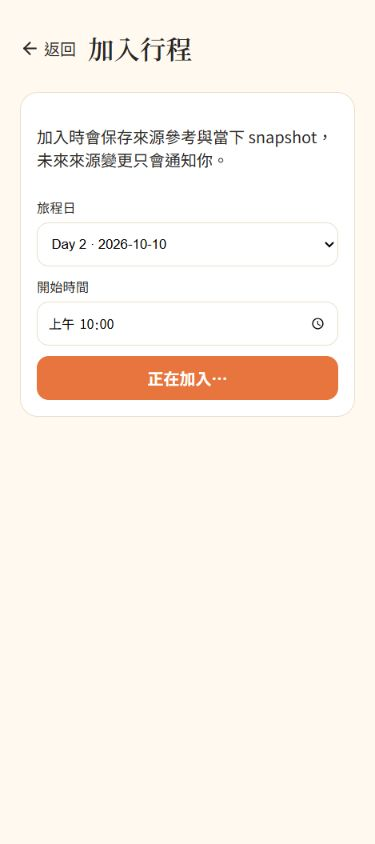
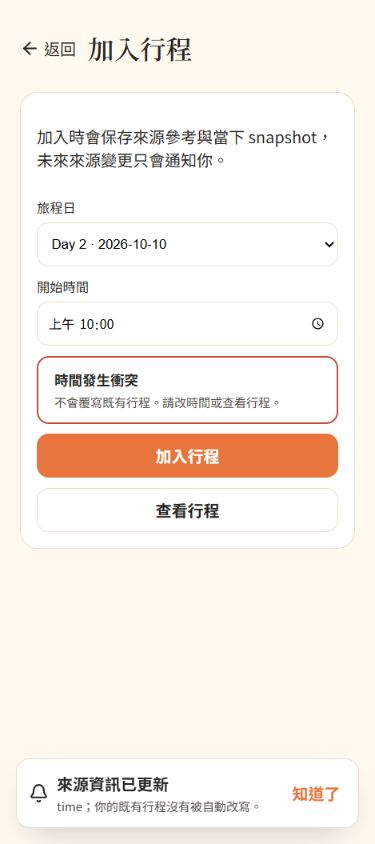
fix: finalize M2 review evidence states

Changed region(s): [[0.088, 0.4005, 0.9093, 0.6161], [0.1467, 0.8934, 0.9093, 0.9858], [0.088, 0.9242, 0.1173, 0.955]]

diff --git a/src/features/discovery/DiscoveryPages.tsx b/src/features/discovery/DiscoveryPages.tsx
@@ -43,12 +43,13 @@ export function AddEventPage() {
 }
 
 export function ReviewerQueuePage() {
-  const role = useQuery({ queryKey: ['platform-role'], queryFn: currentPlatformRole }); const [selected, setSelected] = useState<{ id: string; kind: DiscoveryKind; decision: 'approve' | 'request_changes' | 'reject' | 'publish' } | null>(null); const [note, setNote] = useState(''); const [saving, setSaving] = useState(false); const [failure, setFailure] = useState(false); const [success, setSuccess] = useState(''); const triggerRef = useRef<HTMLButtonElement>(null); const confirmRef = useRef<HTMLButtonElement>(null); const dialogRef = useRef<HTMLElement>(null); const queue = useQuery({ queryKey: ['review-queue'], enabled: Boolean(role.data), queryFn: async () => { const { supabase } = await import('../../lib/supabase'); if (!supabase) return []; const { data, error } = await supabase.from('data_review_queue').select('*').in('status', ['pending', 'needs_changes', 'approved']).order('priority', { ascending: false }); if (error) throw error; return data; } });
+  const role = useQuery({ queryKey: ['platform-role'], queryFn: currentPlatformRole }); const [selected, setSelected] = useState<{ id: string; kind: DiscoveryKind; decision: 'approve' | 'request_changes' | 'reject' | 'publish' } | null>(null); const [note, setNote] = useState(''); const [saving, setSaving] = useState(false); const [failure, setFailure] = useState(false); const [success, setSuccess] = useState(''); const [publishedIds, setPublishedIds] = useState<Set<string>>(() => new Set()); const triggerRef = useRef<HTMLButtonElement>(null); const confirmRef = useRef<HTMLButtonElement>(null); const dialogRef = useRef<HTMLElement>(null); const queue = useQuery({ queryKey: ['review-queue'], enabled: Boolean(role.data), queryFn: async () => { const { supabase } = await import('../../lib/supabase'); if (!supabase) return []; const { data, error } = await supabase.from('data_review_queue').select('*').in('status', ['pending', 'needs_changes', 'approved']).order('priority', { ascending: false }); if (error) throw error; return data; } });
   useEffect(() => { if (selected) window.requestAnimationFrame(() => confirmRef.current?.focus()); }, [selected]);
   if (role.isLoading) return <main className="discovery-page"><p className="discovery-state">正在確認權限…</p></main>;
   if (!role.data) return <main className="discovery-page"><PageHeader title="審核佇列" back="/trips"/><p className="discovery-state is-error" role="alert">403：你沒有資料審核權限。</p></main>;
   const closeDialog = () => { setSelected(null); setFailure(false); window.requestAnimationFrame(() => triggerRef.current?.focus()); };
-  const run = async () => { if (!selected) return; setSaving(true); setFailure(false); try { await reviewAction(selected.id, selected.kind, selected.decision, note); setSuccess('審核動作已送出。'); setNote(''); closeDialog(); await queue.refetch(); } catch { setFailure(true); } finally { setSaving(false); } };
+  const run = async () => { if (!selected) return; const completed = selected; setSaving(true); setFailure(false); try { await reviewAction(completed.id, completed.kind, completed.decision, note); const refreshed = await queue.refetch(); if (refreshed.error) throw refreshed.error; if (completed.decision === 'publish') { setPublishedIds((ids) => new Set(ids).add(completed.id)); setSuccess('已發布，項目已從待審佇列移除。'); } else setSuccess('審核動作已送出。'); setNote(''); closeDialog(); } catch { setFailure(true); } finally { setSaving(false); } };
   const trapDialogFocus = (event: KeyboardEvent<HTMLElement>) => { if (event.key === 'Escape' && !saving) { event.preventDefault(); closeDialog(); return; } if (event.key !== 'Tab' || !dialogRef.current) return; const focusables = Array.from(dialogRef.current.querySelectorAll<HTMLElement>('button:not([disabled]), textarea:not([disabled]), [href]')); if (!focusables.length) return; const first = focusables[0]; const last = focusables.at(-1)!; if (event.shiftKey && document.activeElement === first) { event.preventDefault(); last.focus(); } else if (!event.shiftKey && document.activeElement === last) { event.preventDefault(); first.focus(); } };
-  return <main className="discovery-page reviewer-queue"><PageHeader title="資料審核佇列" back="/trips"/>{success && <p className="discovery-state" role="status">{success}</p>}{queue.isLoading && <p className="discovery-state">正在載入待審資料…</p>}{queue.isError && <p className="discovery-state is-error">無法載入審核佇列。<button onClick={() => void queue.refetch()}>再試一次</button></p>}{!queue.isLoading && !queue.data?.length && <p className="discovery-state">目前沒有待審資料。</p>}{queue.data?.map((item) => { const targetId = item.event_id || item.place_id; const targetKind: DiscoveryKind = item.event_id ? 'event' : 'place'; return <article key={item.id} className="review-row"><div><strong>{targetKind === 'event' ? '活動' : '景點'} · 優先級 {item.priority}</strong><small>風險：{item.risk_flags.join('、') || '無'} · {item.status}</small></div>{(['approve', 'request_changes', 'reject', 'publish'] as const).map((decision) => <button key={decision} disabled={!targetId || (decision === 'publish' && item.status !== 'approved')} onClick={(event) => { if (!targetId) return; triggerRef.current = event.currentTarget; setFailure(false); setSelected({ id: targetId, kind: targetKind, decision }); }}>{decision === 'approve' ? '核准' : decision === 'request_changes' ? '要求修正' : decision === 'reject' ? '拒絕' : '發布'}</button>)}</article>; })}{selected && <section ref={dialogRef} className="filter-sheet" role="dialog" aria-modal="true" aria-labelledby="review-confirm-title" onKeyDown={trapDialogFocus}><div><h2 id="review-confirm-title" tabIndex={-1}>確認審核動作</h2><label>審核備註<textarea value={note} onChange={(event) => setNote(event.target.value)}/></label>{failure && <p role="alert">更新失敗，備註已保留，請再試一次。</p>}<button ref={confirmRef} disabled={saving} onClick={() => void run()}>{saving ? '正在更新…' : failure ? '再試一次' : '確認'}</button><button className="secondary" disabled={saving} onClick={closeDialog}>取消</button></div></section>}</main>;
+  const visibleQueue = queue.data?.filter((item) => !publishedIds.has(item.event_id || item.place_id || '')) || [];
+  return <main className="discovery-page reviewer-queue"><PageHeader title="資料審核佇列" back="/trips"/>{success && <p className="discovery-state" role="status">{success}</p>}{queue.isLoading && <p className="discovery-state">正在載入待審資料…</p>}{queue.isError && <p className="discovery-state is-error">無法載入審核佇列。<button onClick={() => void queue.refetch()}>再試一次</button></p>}{!queue.isLoading && !visibleQueue.length && <p className="discovery-state">目前沒有待審資料。</p>}{visibleQueue.map((item) => { const targetId = item.event_id || item.place_id; const targetKind: DiscoveryKind = item.event_id ? 'event' : 'place'; return <article key={item.id} className="review-row"><div><strong>{targetKind === 'event' ? '活動' : '景點'} · 優先級 {item.priority}</strong><small>風險：{item.risk_flags.join('、') || '無'} · {item.status}</small></div>{(['approve', 'request_changes', 'reject', 'publish'] as const).map((decision) => <button key={decision} disabled={!targetId || (decision === 'publish' && item.status !== 'approved')} onClick={(event) => { if (!targetId) return; triggerRef.current = event.currentTarget; setFailure(false); setSelected({ id: targetId, kind: targetKind, decision }); }}>{decision === 'approve' ? '核准' : decision === 'request_changes' ? '要求修正' : decision === 'reject' ? '拒絕' : '發布'}</button>)}</article>; })}{selected && <section ref={dialogRef} className="filter-sheet" role="dialog" aria-modal="true" aria-labelledby="review-confirm-title" onKeyDown={trapDialogFocus}><div><h2 id="review-confirm-title" tabIndex={-1}>確認審核動作</h2><label>審核備註<textarea value={note} onChange={(event) => setNote(event.target.value)}/></label>{failure && <p role="alert">更新失敗，備註已保留，請再試一次。</p>}<button ref={confirmRef} disabled={saving} onClick={() => void run()}>{saving ? '正在更新…' : failure ? '再試一次' : '確認'}</button><button className="secondary" disabled={saving} onClick={closeDialog}>取消</button></div></section>}</main>;
 }

diff --git a/src/features/discovery/DiscoveryPages.test.tsx b/src/features/discovery/DiscoveryPages.test.tsx
@@ -92,7 +92,7 @@ describe('M2 discovery interactions', () => {
 
   it('moves a pending review through approve, refetch, and publish', async () => {
     let queueRows = [{ id: 'pending', event_id: 'event-pending', place_id: null, priority: 1, risk_flags: [], status: 'pending' }];
-    const refetch = vi.fn().mockImplementation(async () => { queueRows = [{ id: 'approved', event_id: 'event-pending', place_id: null, priority: 1, risk_flags: [], status: 'approved' }]; return { data: queueRows }; });
+    const refetch = vi.fn().mockImplementation(async () => { queueRows = queueRows[0]?.status === 'pending' ? [{ id: 'approved', event_id: 'event-pending', place_id: null, priority: 1, risk_flags: [], status: 'approved' }] : []; return { data: queueRows }; });
     queryMock.mockImplementation(({ queryKey }: { queryKey: string[] }) => queryKey[0] === 'platform-role'
       ? { isLoading: false, data: 'reviewer' }
       : { isLoading: false, isError: false, data: queueRows, refetch });
@@ -108,6 +108,8 @@ describe('M2 discovery interactions', () => {
     await userEvent.click(publish);
     await userEvent.click(screen.getByRole('button', { name: '確認' }));
     await waitFor(() => expect(reviewActionMock).toHaveBeenLastCalledWith('event-pending', 'event', 'publish', ''));
+    expect(await screen.findByRole('status')).toHaveTextContent('已發布，項目已從待審佇列移除。');
+    expect(screen.queryByRole('button', { name: '發布' })).not.toBeInTheDocument();
   });
 
   it('keeps Reviewer dialog open with a retry state when the RPC fails', async () => {

diff --git a/docs/evidence/m2-frontend-audit-2026-09-02/EVIDENCE.md b/docs/evidence/m2-frontend-audit-2026-09-02/EVIDENCE.md
@@ -1,8 +1,8 @@
 # M2 Day 6 Browser Evidence Index - REVIEW
 
-- 時間戳：2026-09-02 10:14:16 +08:00（Asia/Taipei）
+- 時間戳：2026-09-02 11:15:32 +08:00（Asia/Taipei）
 - 目標：本機 `http://127.0.0.1:5173`、local Supabase `http://127.0.0.1:55431`。
-- 帳號：local Magic Link 的 `owner@example.com`、`admin@example.com`；未使用 service role 或 production 環境。
+- 帳號：local Magic Link 的 `owner@example.com`、`platform-admin@example.com`；未使用 service role 或 production 環境。
 - Fixture：`supabase/fixtures/m2_browser_evidence.sql`，僅能套用於 local stack，無金鑰、不屬於 production migration。
 
 ## 已驗證
@@ -13,9 +13,9 @@
 | Owner Explore | 320×844、375×844、430×932、768×1024、1440×900 無水平 overflow，均為 2 張 published cards、1 個 selected tab。 |
 | Owner Filter dialog | 開啟後焦點在區域 select；Escape 關閉後焦點回到篩選按鈕。 |
 | Event Detail／report | 真實 published Event 可讀；修正 report category contract 後實際 INSERT 成功且 UI 顯示「已送交審核」。 |
-| Add Event | Day 2 10:00 實際命中 `PT409`，不覆寫原行程；Day 1 10:00 實際新增成功。 |
+| Add Event | Day 2 10:00 實際命中 `PT409`；重新擷取的 conflict 畫面明確顯示「時間發生衝突」、不覆寫說明與查看行程 action；Day 1 10:00 實際新增成功。 |
 | Change Notification | Owner 看到 time change notice，按「知道了」後資料庫 `acknowledged_at` 非 null。 |
-| Reviewer | `admin@example.com` 可看 pending row，實際完成 approve → approved → publish；Event 為 published，audit 有 2 筆。 |
+| Reviewer | `platform-admin@example.com` 可看 pending row，實際完成 approve → approved → publish；重新擷取的 published 畫面顯示「已發布，項目已從待審佇列移除。」且沒有可用發布按鈕；Event 為 published，audit 有 2 筆。 |
 | Owner Reviewer Queue | 375px 顯示 403 且無管理 action；console error／warning 為 0。 |
 | Reflow／safe area／motion | 720×450 作為 1440px 的 200% reflow 等效寬度，`scrollWidth <= clientWidth`；CSS 實際含 safe-area 與 reduced-motion media rules。 |
 
@@ -33,6 +33,12 @@
 - `10-reviewer-published-1440.png`
 - `11-reviewer-200pct-equivalent-720x450.png`
 - `12-owner-reviewer-403-375.png`
+
+## 2026-09-02 11:10:24 +08:00 Replacement evidence
+
+- 已依最終驗收要求只替換 `06-owner-add-conflict-375.png` 與 `10-reviewer-published-1440.png`；其他已接受 artifacts 未重做。
+- Conflict screenshot 於 RPC settled 後擷取，DOM alert 為 `時間發生衝突`／`不會覆寫既有行程。請改時間或查看行程。`。
+- Published screenshot 於 RPC 與 `refetch()` 成功後擷取，DOM status 為 `已發布，項目已從待審佇列移除。`，`發布` button count 為 0。
 
 ## Accessibility and limitations
 
